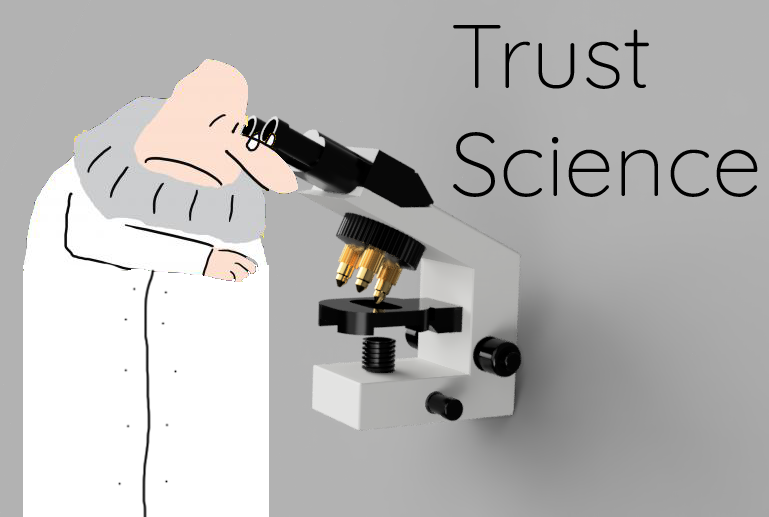
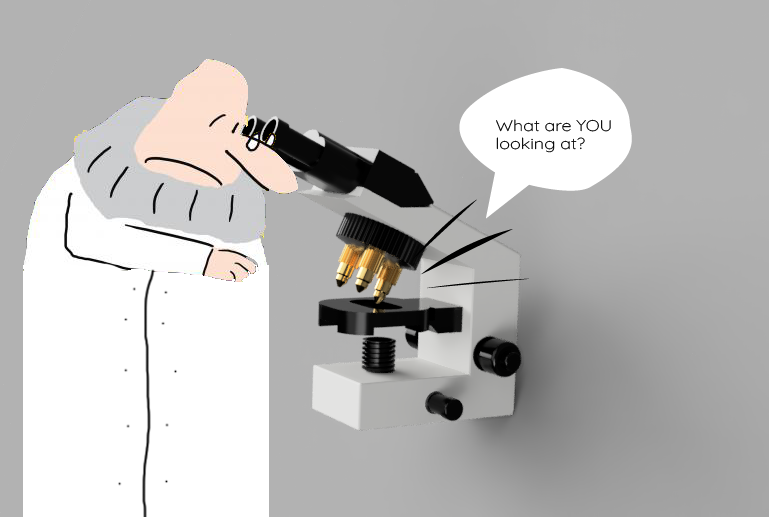
second week fixed 2d

diff --git a/docs/week2.html b/docs/week2.html
@@ -170,7 +170,8 @@ Cons:
           <div class="col-lg-6 pt-5 pt-lg-0">
             <h4 data-aos="fade-up"><mark>2D Contexting</mark></h3>
             <p style = "margin-right: 10px" data-aos="fade-up" data-aos-delay="100">
-          For our second assignment, we were to grab the renderised image, and include some rastered images and vector elements to create a poster. For a little contraste to the 3D modelling, I am very inexperienced in illustrations and thought a little bit of humour for science is always a little appreciated. Trust science!
+          For our second assignment, we were to grab the renderised image, and include some rastered images and vector elements to create a poster. In this case, the bacteria being observed doesn't like the intrusion of the nosey scientist, go look at your own kind!
+          <br>The scientist is drawn in rasterised, pixelated form and the speech bubble as well as the text are vectors made in illustrator.</p>
           </section>
       </div>
 
